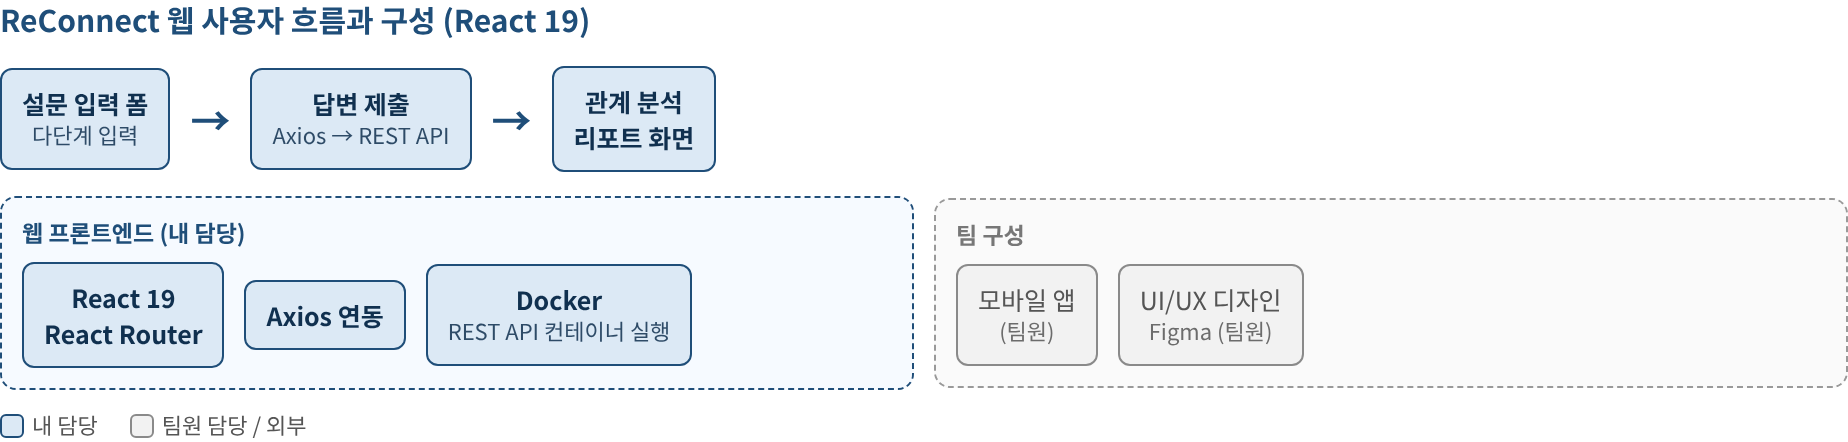
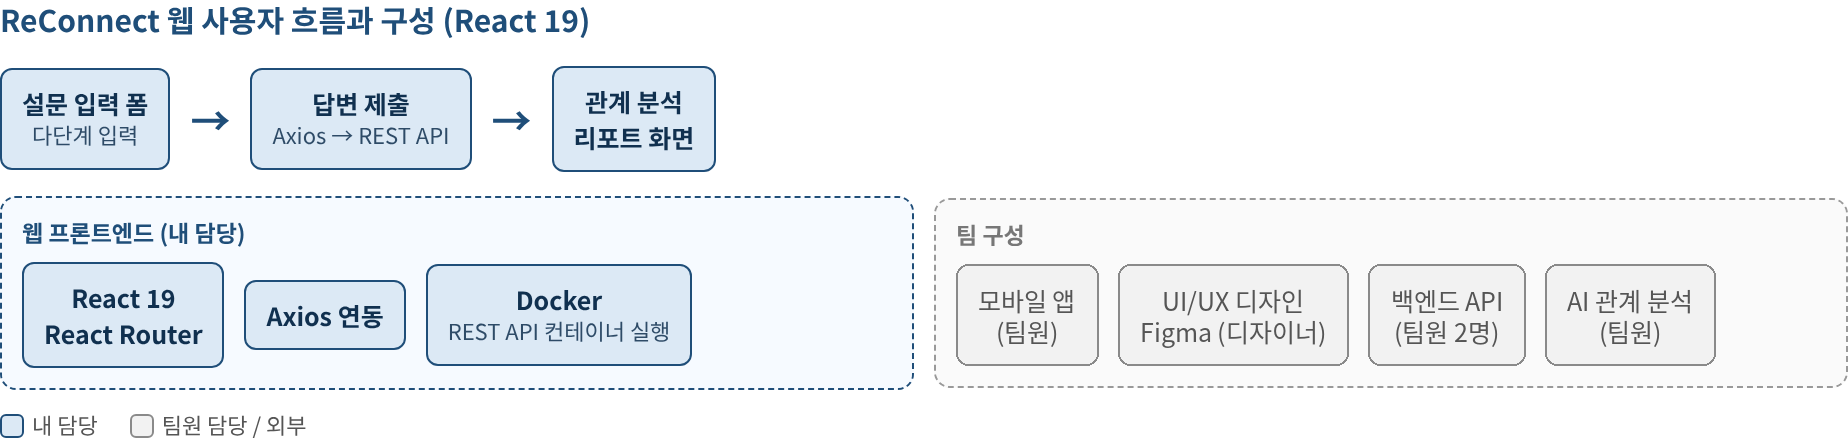
docs: ReConnect 팀 구성(6명) 반영

diff --git a/site/src/data/projects.js b/site/src/data/projects.js
@@ -277,7 +277,7 @@ const allProjects = [
     summary: '연인과 함께 쓰는 감정 다이어리 서비스의 웹 프론트엔드',
     period: '2025.09 ~ 2025.12',
     type: 'AI-Powered 상상기업 · 약 4개월 장기 프로젝트',
-    team: '4명',
+    team: '6명 (프론트엔드 2, 디자이너 1, 백엔드 2, AI 1)',
     role: '웹 프론트엔드 전담',
     stack: ['React 19', 'React Router', 'Axios'],
     links: [{ label: 'GitHub', url: 'https://github.com/alberione1110/ReConnect' }],
@@ -294,7 +294,7 @@ const allProjects = [
       'Axios 인스턴스·인터셉터와 API 서비스 계층 구성',
       '백엔드와 AI 사이에서 생길 수 있는 문제를 체크리스트로 만들어 제공, 실제 API 연동성 문제 해결에 기여',
     ],
-    teamWork: ['모바일 앱, 백엔드 API'],
+    teamWork: ['모바일 앱 (프론트엔드 팀원)', 'UI/UX 디자인 (디자이너)', '백엔드 API (2명)', '관계 분석 AI (1명)'],
     metrics: null,
     extra: null,
   },
